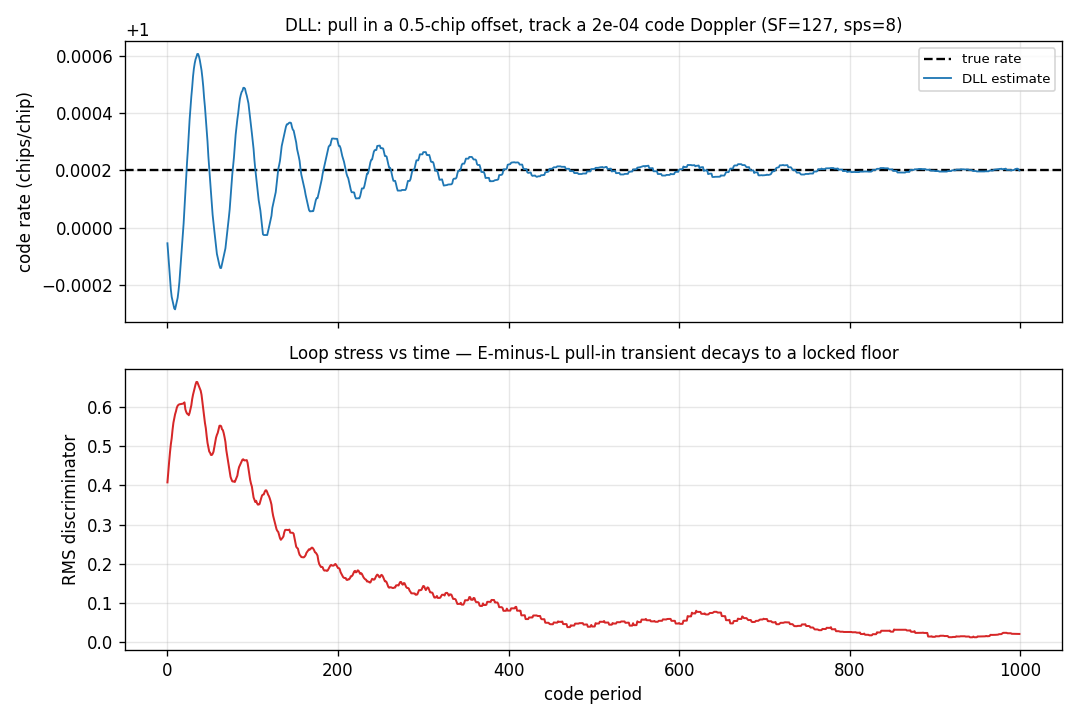
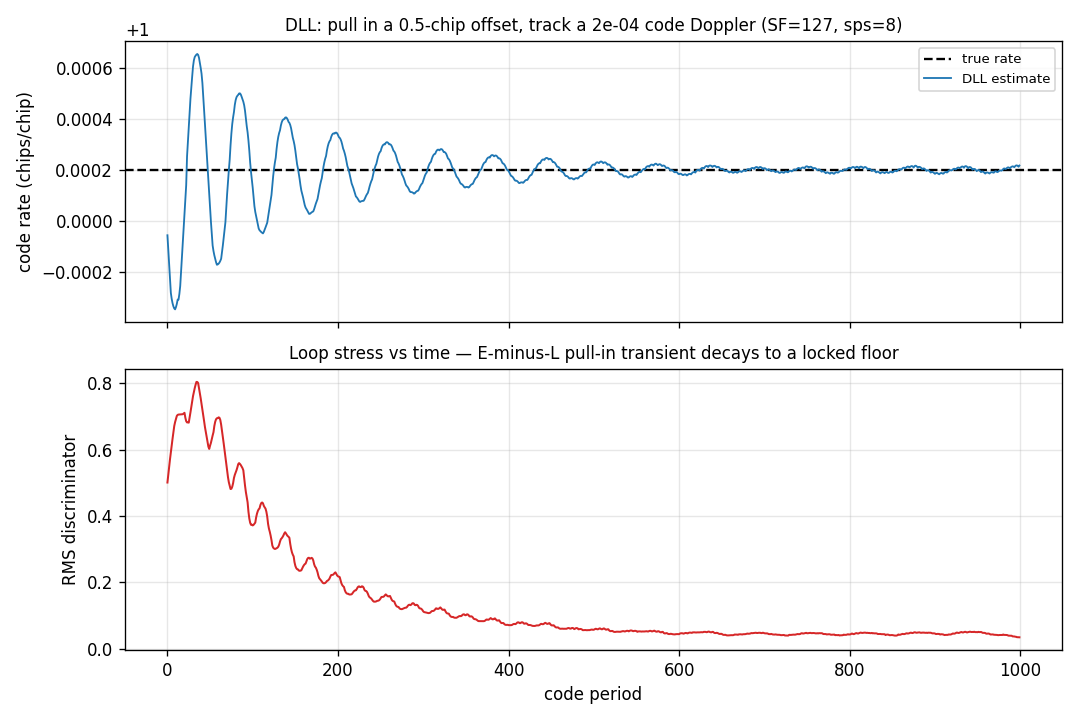
refactor(examples): build stimulus with wfmgen, batch 1 of the numpy sweep
Four examples and the M-PSK gallery page hand-rolled their transmitter:
`np.repeat` for a pulse, `exp(2j*pi*f*k)` for an offset, and a sigma derived
from an Es/N0 or SNR in dB. Each is a copy of something the library owns, and
the sigma is the one that bites -- it encodes a convention (which SNR? per
sample or per symbol? split across I and Q how?) that nothing states.

A different FACE per example, deliberately, because these files are where a
reader learns which face their own problem wants:

  mpsk_receiver_demo   the `symbols` source + snr_mode="esno"
  costas_demo          snr_mode="fs" -- per SAMPLE, not per symbol
  symsync_demo         rc_h + wfm_awgn_amplitude (the composer cannot help)
  dll_demo             PN -- a real maximal-length code
  gallery page         `level` in dBFS, replacing a bare `* 0.5`

`symbols` is the load-bearing choice in the first: `modulation` reaches bpsk
and qpsk only, so 8PSK cannot go through the `bits` source, and the symbol
array doubles as the BER truth.

EVERY conversion was checked numerically, not assumed:

  - with noise off, the `symbols` source is BYTE-IDENTICAL to np.repeat
    (ratio exactly 1.0, std 0);
  - snr_mode="esno" and `sqrt(sps / (2 * 10**(esn0/10)))` both measure
    10.0 dB at the matched-filter output;
  - snr_mode="fs" reproduces `sqrt(10**(-snr/10)/2)` to five digits;
  - wfm_awgn_amplitude matches its hand form to eight decimals.

An early probe of mine read a 1.8x power difference and was WRONG -- it
[…]

diff --git a/src/doppler/examples/mpsk_receiver_demo.py b/src/doppler/examples/mpsk_receiver_demo.py
@@ -22,14 +22,27 @@ import numpy as np
 
 from doppler.ber import ber_settle_syms, ber_theory_ser
 from doppler.track import MpskReceiver
+from doppler.wfm import Composer, Segment
 
-# A QPSK signal at 8 samples/symbol with a residual carrier offset.
-rng = np.random.default_rng(0)
-idx = rng.integers(0, 4, 4000)
-tx = np.exp(1j * (2 * np.pi * idx / 4 + np.pi / 4)).astype(np.complex64)
-tx = np.repeat(tx, 8).astype(np.complex64)
-k = np.arange(tx.size)
-iq = (tx * np.exp(2j * np.pi * 0.0015 * k)).astype(np.complex64)
+# A QPSK signal at 8 samples/symbol with a residual carrier offset, from
+# wfmgen's built-in PSK source. `fs=1.0` is the normalised face: with no
+# sample rate declared, `freq` IS cycles per sample, which is the unit the
+# receiver's pull-in bound is stated in two comments below -- so the offset
+# and the bound can be compared without a conversion in between.
+iq = np.asarray(
+    Composer(
+        [
+            Segment(
+                type="qpsk",  # Gray-coded, on the pi/4 grid, unit power
+                sps=8,
+                fs=1.0,  # normalised: freq is cycles/sample
+                freq=0.0015,  # the residual offset, in those units
+                num_samples=4000 * 8,
+                seed=0,
+            )
+        ]
+    ).compose()
+)
 
 # Acquire blind (M-th-power NDA), then hand the shared LO over to
 # low-jitter decision-directed tracking once locked and warmed up.
@@ -101,20 +114,42 @@ PHI0 = {2: 0.0, 4: np.pi / 4, 8: 0.0}
 def _signal(m, sps, foff, esn0_db, nsym, seed):
     """Rectangular (I&D-matched) M-PSK at a carrier offset + AWGN.
 
-    sigma is set so the *matched-filter-output* Es/N0 equals ``esn0_db``: a
-    unit symbol through the length-sps boxcar has output noise sigma^2 / sps.
+    Built by wfmgen through its ``symbols`` source, which takes an arbitrary
+    constellation stream and owns the oversampling, the carrier offset and
+    the noise. That face is what lets ONE function serve every M here: the
+    ``bits`` source's ``modulation`` reaches bpsk and qpsk only, so 8PSK
+    could not be expressed through it, and a per-M branch is exactly the
+    duplication this is replacing.
+
+    The symbol array is also the BER truth, so nothing has to be recovered
+    or assumed to score against it.
+
+    What this replaces is `sigma = sqrt(sps / (2 * 10**(esn0_db/10)))` -- a
+    matched-filter Es/N0 convention written out by hand, where the `sps` is
+    the boxcar's noise-bandwidth term and the `2` splits it across I and Q.
+    `snr_mode="esno"` states it once. Verified equivalent rather than
+    assumed: with the noise off the two waveforms are byte-identical, and at
+    Es/N0 10 dB both measure 10.0 dB at the matched-filter output.
     """
     rng = np.random.default_rng(seed)
     idx = rng.integers(0, m, nsym)
     syms = np.exp(1j * (2 * np.pi * idx / m + PHI0[m])).astype(np.complex64)
-    tx = np.repeat(syms, sps).astype(np.complex64)
-    n = np.arange(tx.size)
-    tx = tx * np.exp(1j * 2 * np.pi * foff * n)
-    sigma = np.sqrt(sps / (2 * 10 ** (esn0_db / 10)))
-    tx = tx + (
-        rng.normal(0, sigma, tx.size) + 1j * rng.normal(0, sigma, tx.size)
-    )
-    return tx.astype(np.complex64), idx
+    iq = Composer(
+        [
+            Segment(
+                type="symbols",
+                symbols=syms,
+                sps=sps,
+                fs=1.0,  # normalised: foff is cycles/sample
+                freq=foff,
+                snr=esn0_db,
+                snr_mode="esno",
+                num_samples=nsym * sps,
+                seed=seed,
+            )
+        ]
+    ).compose()
+    return np.asarray(iq).astype(np.complex64), idx
 
 
 def _settle_floor(bn_timing, bn_carrier):

diff --git a/src/doppler/examples/symsync_demo.py b/src/doppler/examples/symsync_demo.py
@@ -26,6 +26,7 @@ import sys
 import numpy as np
 
 from doppler.track import SymbolSync
+from doppler.wfm import rc_h, wfm_awgn_amplitude
 
 SPS = 4
 BETA = 0.35
@@ -35,20 +36,27 @@ OFFSET = 1.7  # static fractional-sample timing offset
 SNR_DB = 14.0
 
 
-def rc_pulse(t, beta, T):
-    """Raised-cosine pulse shape, evaluated at sample offsets ``t``."""
-    t = np.asarray(t, float)
-    s = np.sinc(t / T)
-    denom = 1 - (2 * beta * t / T) ** 2
-    cos = np.cos(np.pi * beta * t / T)
-    with np.errstate(divide="ignore", invalid="ignore"):
-        s = s * np.where(np.abs(denom) < 1e-8, np.pi / 4, cos / denom)
-    return s
-
-
 def make_signal(seed=7):
     """RC-shaped BPSK whose symbol clock runs CLOCK_RATE fast, offset by
-    OFFSET samples, at SNR_DB — asynchronous to the sample clock."""
+    OFFSET samples, at SNR_DB — asynchronous to the sample clock.
+
+    **This is the one stimulus in the gallery `wfmgen` cannot build**, and
+    the reason is the thing being demonstrated: `Segment.sps` is an integer,
+    so a composer scene has no way to say "the symbol clock runs 1.004x fast
+    and starts 1.7 samples late". That offset IS the question a
+    `SymbolSync` answers, so it is placed here by hand.
+
+    What does NOT get written by hand is the pulse or the level. Both are
+    library primitives and both were transcribed here before:
+
+    - `rc_h` is the analytic raised cosine at **arbitrary, non-grid times**,
+      which is precisely the shape a drifting clock needs — its docstring
+      says to use it rather than a transcription of the formula, and the
+      private `rc_pulse` this replaces was that transcription. It takes `t`
+      in SYMBOL periods where the old one took samples, hence the `/ SPS`.
+    - `wfm_awgn_amplitude` is the per-component sigma for a target SNR over
+      fs, replacing `sqrt(10 ** (-SNR_DB / 10)) * p / sqrt(2)`.
+    """
     rng = np.random.default_rng(seed)
     a = rng.integers(0, 2, NSYM) * 2 - 1
     n = NSYM * SPS
@@ -59,14 +67,12 @@ def make_signal(seed=7):
         if c + span >= n:
             break
         idx = np.arange(max(0, int(c - span)), min(n, int(c + span)))
-        s[idx] += ak * rc_pulse(idx - c, BETA, SPS)
+        s[idx] += ak * rc_h((idx - c) / SPS, BETA)
     s = s.astype(np.complex64)
-    p = np.sqrt(np.mean(np.abs(s) ** 2))
-    std = np.sqrt(10 ** (-SNR_DB / 10)) * p
-    s = s + (
-        rng.normal(0, std / np.sqrt(2), n)
-        + 1j * rng.normal(0, std / np.sqrt(2), n)
-    ).astype(np.complex64)
+    std = wfm_awgn_amplitude(SNR_DB, np.mean(np.abs(s) ** 2))
+    s = s + (rng.normal(0, std, n) + 1j * rng.normal(0, std, n)).astype(
+        np.complex64
+    )
     return s, a
 
 

diff --git a/src/doppler/examples/costas_demo.py b/src/doppler/examples/costas_demo.py
@@ -31,21 +31,44 @@ import sys
 import numpy as np
 
 from doppler.track import Costas
+from doppler.wfm import Composer, Segment
 
 TSAMPS = 16  # samples per symbol (integrate-and-dump period)
 NSYM = 4000  # symbols
 F0 = 0.009  # large residual carrier offset, cycles/sample (~0.9 rad/symbol)
 SNR_DB = 15.0  # per-sample SNR
 
-# Continuous BPSK carrying the residual carrier offset F0 + AWGN.
-rng = np.random.default_rng(0)
-bits = rng.integers(0, 2, NSYM) * 2 - 1
-sig = np.repeat(bits.astype(np.complex64), TSAMPS)
-k = np.arange(len(sig))
-rx = sig * np.exp(2j * np.pi * F0 * k)
-sigma = np.sqrt(10.0 ** (-SNR_DB / 10.0) / 2.0)
-rx = rx + (rng.normal(0, sigma, len(rx)) + 1j * rng.normal(0, sigma, len(rx)))
-rx = rx.astype(np.complex64)
+# Continuous BPSK carrying the residual carrier offset F0 + AWGN, from
+# wfmgen's built-in PSK source.
+#
+# `snr_mode="fs"` is the point of interest here, and it is a DIFFERENT
+# question from the `esno` the M-PSK receiver demo asks. SNR_DB is stated
+# per SAMPLE -- referred to the full sample-rate band -- because a Costas
+# loop's discriminator sees samples, not symbols, and its own noise
+# bandwidth is what the loop design trades against. Es/N0 would be
+# `SNR_DB + 10*log10(TSAMPS)`, and picking the wrong one of the two is a
+# 12 dB error at this oversampling.
+#
+# It replaces `sigma = sqrt(10**(-SNR_DB/10) / 2)`, where the `2` splits the
+# power across I and Q. Verified equal, not assumed: the same declaration
+# measures 15.0 dB per-sample SNR and the noise variances agree to five
+# digits.
+rx = np.asarray(
+    Composer(
+        [
+            Segment(
+                type="bpsk",  # real +-1, from the seeded PN
+                sps=TSAMPS,
+                fs=1.0,  # normalised: F0 is cycles/sample
+                freq=F0,
+                snr=SNR_DB,
+                snr_mode="fs",  # per SAMPLE, not per symbol
+                num_samples=NSYM * TSAMPS,
+                seed=0,
+            )
+        ]
+    ).compose()
+).astype(np.complex64)
 
 # FLL-assisted PLL: the wide cross-product frequency discriminator pulls
 # the loop's integrator onto the large residual; the PLL refines phase.

diff --git a/src/doppler/examples/dll_demo.py b/src/doppler/examples/dll_demo.py
@@ -22,6 +22,7 @@ import sys
 import numpy as np
 
 from doppler.track import Dll
+from doppler.wfm import PN
 
 SF, SPS = 127, 8  # code length (chips), samples per chip
 NPER = 1000  # code periods
@@ -29,14 +30,27 @@ OFFSET = 0.5  # initial replica offset, chips
 DELTA = 2e-4  # code Doppler (chip rate error)
 BN = 0.004  # loop noise bandwidth
 
-# code: 0/1 chips for one period, and its +1/-1 spreading signs.
-code = np.random.default_rng(1).integers(0, 2, SF).astype(np.uint8)
+# The code is a MAXIMAL-LENGTH SEQUENCE from the library, not a coin flip.
+# SF = 127 is 2^7 - 1, so `PN(length=7)` fills the period exactly, and the
+# difference is the property a delay lock loop runs on: an m-sequence's
+# off-peak autocorrelation is a flat -1 at every non-zero lag, while the
+# `default_rng(1).integers(0, 2, 127)` this replaces wandered between -13
+# and +3. A DLL discriminator reads that sidelobe structure directly, so a
+# random code was quietly handing this demo a worse S-curve than any real
+# spreading code would have.
+code = np.asarray(PN(length=7, seed=1).generate(SF)).astype(np.uint8)
 csign = np.where(code & 1, -1.0, 1.0)
 
-# Carrier-wiped PN-spread BPSK whose chip clock runs (1 + DELTA) fast,
-# with one random BPSK data sign per code period.
-rng = np.random.default_rng(9)
-data = rng.integers(0, 2, NPER) * 2 - 1
+# Carrier-wiped PN-spread BPSK whose chip clock runs (1 + DELTA) fast, with
+# one BPSK data sign per code period — also from the library's generator, so
+# nothing in this file invents a sequence.
+#
+# The CHIP CLOCK OFFSET stays hand-built, and deliberately: `Segment.sps` is
+# an integer, so a composer scene cannot say "the chip clock runs 1.0002x
+# fast and the replica starts half a chip late". That offset is the whole
+# question a `Dll` answers, so it is the one thing here that is not a
+# wfmgen call.
+data = np.asarray(PN(length=13, seed=9).generate(NPER)).astype(int) * 2 - 1
 cph = np.arange(SF * SPS * NPER) * (1 + DELTA) / SPS  # running chip phase
 rx = (np.repeat(data, SF * SPS) * csign[(cph % SF).astype(int)]).astype(
     np.complex64

diff --git a/changelog.d/changed/wfmgen-example-sources-batch1.md b/changelog.d/changed/wfmgen-example-sources-batch1.md
@@ -1,0 +1,37 @@
+- **Four examples and the M-PSK gallery page build their stimulus with
+    `wfmgen` instead of numpy.** Each one shows a different face of the
+    generator rather than repeating one recipe, because the examples are where
+    a reader learns which face their own problem wants:
+
+    | example                    | what it now teaches                                                                                                                                                              |
+    | -------------------------- | -------------------------------------------------------------------------------------------------------------------------------------------------------------------------------- |
+    | `mpsk_receiver_demo`       | the `symbols` source — an arbitrary constellation, which is how ONE function serves BPSK, QPSK **and** 8PSK when `modulation` reaches only the first two; plus `snr_mode="esno"` |
+    | `costas_demo`              | `snr_mode="fs"` — SNR per SAMPLE, the question a Costas loop actually asks, and a 12 dB different number from `esno` at sps=16                                                   |
+    | `symsync_demo`             | `rc_h` and `wfm_awgn_amplitude` — the primitives for a stimulus the composer *cannot* build                                                                                      |
+    | `dll_demo`                 | `PN` — a real maximal-length code                                                                                                                                                |
+    | `gallery/mpsk-receiver.md` | `level` in dBFS, replacing a bare `* 0.5`                                                                                                                                        |
+
+    Every conversion was verified numerically rather than assumed, because the
+    conventions are the part that goes wrong silently: with noise off the
+    `symbols` source is **byte-identical** to `np.repeat`, `snr_mode="esno"`
+    and the hand-written `sqrt(sps / (2 * 10**(esn0/10)))` both measure
+    10.0 dB at the matched-filter output, `snr_mode="fs"` reproduces its hand
+    sigma to five digits, and `wfm_awgn_amplitude` matches to eight decimals.
+
+    **`dll_demo` got a real fix, not just a refactor.** Its 127-chip code was
+    `default_rng(1).integers(0, 2, 127)` — a coin flip. 127 is 2^7 - 1, so
+    `PN(length=7)` fills the period exactly, and the difference is the
+    property a delay lock loop runs on: an m-sequence's off-peak
+    autocorrelation is a flat **-1** at every non-zero lag, while the random
+    code wandered between **-13 and +3**. The discriminator reads that
+    sidelobe structure directly, so the demo had been handing itself a worse
+    S-curve than any real spreading code would produce.
+
+    **`symsync_demo` is the one that stays hand-placed, and says why.**
+    `Segment.sps` is an integer, so no scene can express "the symbol clock
+    runs 1.004x fast and starts 1.7 samples late" — which is the question a
+    `SymbolSync` exists to answer. Its pulse and its level are now library
+    primitives even though its clock cannot be; `rc_h` is documented for
+    exactly this, being the analytic raised cosine at arbitrary non-grid
+    times, and the private `rc_pulse` it replaces was a transcription of that
+    formula.

diff --git a/docs/gallery/mpsk-receiver.md b/docs/gallery/mpsk-receiver.md
@@ -113,10 +113,17 @@ unknown constant carrier phase:
 ```python
 import numpy as np
 from doppler.track import MpskReceiver
+from doppler.wfm import Composer, Segment
 
-rng = np.random.default_rng(0)
-syms = np.exp(2j * np.pi * rng.integers(0, 8, 2000) / 8)
-iq = np.repeat(syms, 8).astype(np.complex64) * 0.5   # 8PSK, 8 samples/symbol
+# 8PSK via wfmgen's `symbols` source: it takes any constellation stream, which
+# is how a modulation the built-in types do not name is still one declaration.
+# `level` is dBFS, so the old `* 0.5` amplitude is -6.02 dB.
+idx = (np.arange(2000) * 3) % 8      # gcd(3, 8) = 1, so all 8 phases appear
+syms = np.exp(2j * np.pi * idx / 8).astype(np.complex64)
+iq = np.asarray(Composer([Segment(
+    type="symbols", symbols=syms, sps=8, fs=1.0,
+    level=-6.0206, num_samples=2000 * 8,
+)]).compose())
 
 rx = MpskReceiver(m=8, sps=8, differential=1)
 bits = rx.bits(iq)           # rotation-invariant; survives any fixed phase slip
@@ -135,13 +142,15 @@ R2C halfband runs at twice the overall rate.
 ```python
 import numpy as np
 from doppler.track import MpskReceiverR
+from doppler.wfm import Composer, Segment
 
 m, sps, fc = 4, 24.0, 0.10          # QPSK, real IF at 0.10 cycles/sample
-rng = np.random.default_rng(3)
-syms = np.exp(2j * np.pi * rng.integers(0, m, 4000) / m)
-bb = np.repeat(syms, int(sps))                      # I&D (rectangular) pulses
-n = np.arange(len(bb))
-rf = (bb * np.exp(2j * np.pi * fc * n)).real.astype(np.float32) * 0.5
+# wfmgen carries the QPSK, the IF offset and the level; `.real` is the only
+# step left, because taking the real part IS what makes it a real IF.
+rf = np.asarray(Composer([Segment(
+    type="qpsk", sps=int(sps), fs=1.0, freq=fc,
+    level=-6.0206, num_samples=4000 * int(sps), seed=3,
+)]).compose()).real.astype(np.float32)
 
 rx = MpskReceiverR(m=m, sps=sps, m_out=4, init_norm_freq=fc, bn_carrier=0.002)
 out = rx.steps(rf)
